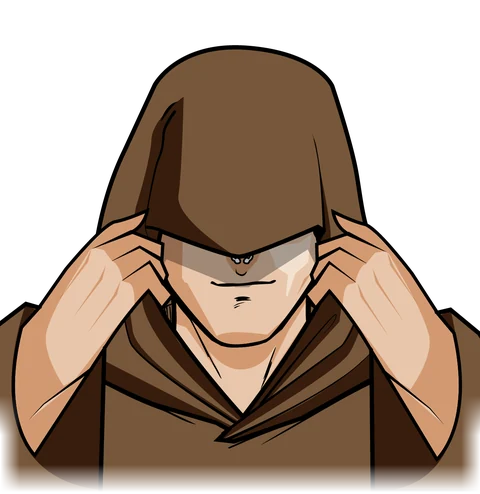
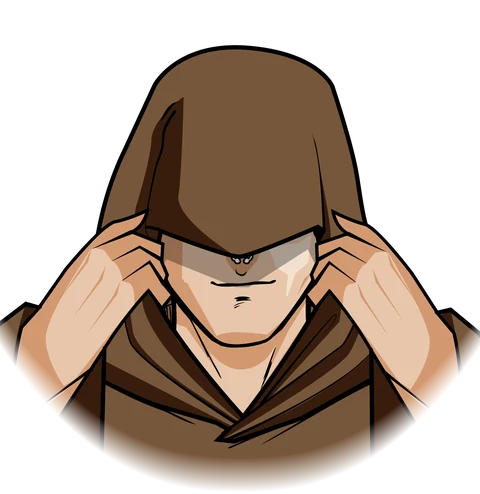
Equipo: difuminado de hombros en forma de busto
Con el difuminado recto del commit anterior (solo un borde fino abajo),
como la túnica llega hasta los bordes del dibujo, cada persona acababa
en un rectángulo con los bordes borrosos, y no gustaba.

Ahora el final del difuminado sigue una curva en U: en el centro solo
se difumina un borde fino abajo (92,5 % → 99,5 % de la altura) y hacia
los lados la curva sube (63 % → 70 % en el borde). Cada figura termina
en un busto redondeado, sin esquinas rectas, y el cuerpo sigue opaco
(no se ve el orbe a través). Se regeneran las capas de las cinco
personas; CLAUDE.md recoge los nuevos valores.

Probado: capturas en Chrome (escritorio y móvil, tema claro);
npm run a11y sin incidencias.

Changed region(s): [[0.0, 0.6377, 1.0, 1.0]]

diff --git a/web/tools/procesar-equipo.py b/web/tools/procesar-equipo.py
@@ -46,19 +46,19 @@ CAPAS = ("capucha", "manos", "rostro")
 
 
 def mascara_hombros(ancho: int, alto: int) -> np.ndarray:
-    """Opacidad (0..1) por píxel para difuminar la parte baja de la figura.
+    """Opacidad (0..1) por píxel para difuminar la parte baja de la figura, en forma de busto.
 
-    - Vertical: opaco hasta el 94 % de la altura y llega a 0 en el 99,5 %.
-    - Lados: 4 % de cada borde, solo en la parte baja (entra entre el 80 % y el 88 %).
-    Es solo un borde fino: con el de la v1 (72 % → 98,5 %, lados 13 % desde el 55 %) el pecho quedaba
-    semitransparente y se veía el orbe del fondo a través de las figuras.
+    La túnica llega hasta los bordes del dibujo, así que un difuminado recto dejaba abajo un rectángulo
+    con los bordes borrosos. Ahora el final del difuminado sigue una curva en U: en el centro solo se
+    difumina un borde fino abajo (del 92,5 % al 99,5 % de la altura) y hacia los lados la curva sube
+    (en el borde, del 63 % al 70 %), así que no quedan esquinas rectas. El cuerpo sigue opaco: nada de
+    ver el orbe del fondo a través de las figuras.
     """
     y = np.arange(alto)[:, None] / alto
-    x = np.arange(ancho)[None, :] / ancho
-    vertical = np.interp(y, [0, .94, .995, 1], [1, 1, 0, 0])
-    lados = np.minimum(np.clip(x / .04, 0, 1), np.clip((1 - x) / .04, 0, 1))
-    peso_lados = np.interp(y, [0, .80, .88, 1], [0, 0, 1, 1])
-    return vertical * (1 - (1 - lados) * peso_lados)
+    u = np.abs(np.arange(ancho)[None, :] / ancho - .5) / .5     # 0 en el centro, 1 en los lados
+    fin = .995 - .295 * u ** 2.4                                 # donde la opacidad llega a 0
+    banda = .07                                                  # anchura del fundido
+    return np.clip((fin - y) / banda, 0, 1)
 
 
 def procesar(slug: str) -> None:

diff --git a/claude/CLAUDE.md b/claude/CLAUDE.md
@@ -73,7 +73,7 @@ Seguridad del proyecto: `.npmrc` con `ignore-scripts` y versiones exactas (no qu
 - **No** volver a la máscara CSS para difuminar hombros (líneas en Safari): el difuminado va incrustado en los PNG.
 - Si se cambian los `transform` del "paso al frente" en `Equipo.astro`, actualizar también `REPOSO`/`ACTIVA` en `src/scripts/equipo/revelado.ts`.
 - Revelado del equipo: capucha → manos → rostro con fundidos suaves. Capucha (pausa 0.3s + 0.45s) → manos aguantan 0.2s → se disuelven 0.35s al rostro; el rostro aparece a los 0.9s (antes asomaba el pelo por encima de la capucha); la ficha a los 0.9s. Orden de capas: capucha > manos > rostro; la fila de atrás lleva debajo `.layer-body` (`<slug>-cuerpo.webp`, encapuchado sin difuminar) para no desvanecerse entre las capuchas de delante, y baja 12px en reposo (`REPOSO.atras.ty`). Al salir, el rostro se funde a la vez que vuelve la capucha (0.3s, 0.05s de retraso); si espera, el pelo que sobresale de la capucha se ve encima. Nada de cortes secos `steps()`.
-- Nuevas ilustraciones: renombrar los dibujos a `<persona>-capucha.png`, `-manos.png`, `-rostro.png` (y `-capucha-sola.png`) en `web/web_assets/designs/<persona>/`, añadir la persona a `PERSONAS` en `web/tools/procesar-equipo.py` (aplica el difuminado, solo un borde fino para que no se vea el orbe a través: vertical 94%→99,5%; lados 4% desde el 80–88% de altura; 480×494 WebP) y después importarlas en `src/data/equipo.ts`.
+- Nuevas ilustraciones: renombrar los dibujos a `<persona>-capucha.png`, `-manos.png`, `-rostro.png` (y `-capucha-sola.png`) en `web/web_assets/designs/<persona>/`, añadir la persona a `PERSONAS` en `web/tools/procesar-equipo.py` (aplica el difuminado en forma de busto: el final sigue una curva en U, 92,5→99,5 % en el centro y 63→70 % en los lados, sin esquinas rectas y con el cuerpo opaco; 480×494 WebP) y después importarlas en `src/data/equipo.ts`.
 - **Fondo del EQUIPO:** escenario con tokens `--equipo-*` (oscuro en tema oscuro, crema cálido en claro) con el orbe dorado y una corona de 16 llamitas del logo girando (90 s/vuelta) en `components/equipo/OrbeCorona.astro`; degradado arriba y abajo con el fondo de la página. El giro tiene botón de pausa (WCAG 2.2.2, `scripts/equipo/pausa-orbe.ts`); con reducir movimiento no gira ni sale el botón.
 - Huecos de ponentes ("?" dorado animado) y patrocinadores ("Tu logo aquí"): se quedan así hasta que haya contenido real (decisión del usuario).
 - **Tema claro/oscuro:** oscuro = diseño original. Colores de secciones en tokens (`--text`, `--text-2`, `--text-3`, `--accent-text`, `--form-bg`, `--slot-*`, `--line`, `--logo-filter`) con valores claros en `prefers-color-scheme: light` y `html[data-theme=light]`. Cabecera y portada blancas en ambos (logo negro). En claro el dorado no vale como color de texto: `--accent-text` = ocre `#8a5b00`. Colores nuevos: siempre vía token, nunca literales en secciones.
